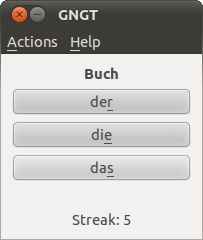
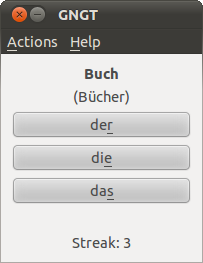
updated for v1.0 release

diff --git a/downloads.html b/downloads.html
@@ -11,28 +11,34 @@
 <div id="Content">
 
 	<h1>Windows</h1>
-	<p><a href="https://github.com/downloads/lawand/gngt/GNGT%20v0.9%20(Windows).zip">GNGT v0.9 - 3.1MB</a></p>
+	<p><a href="https://github.com/downloads/lawand/gngt/GNGT%20v1.0%20(Windows).zip">GNGT v1.0 - 3.1MB</a></p>
 	<p>Supported versions of the Windows operating system are 32bit Editions of Windows XP, Windows Vista and Windows 7.</p>
 	
 	<h1>Ubuntu Linux</h1>
-	<p><a href="https://github.com/downloads/lawand/gngt/GNGT%20v0.9%20(Ubuntu%20Linux).zip">GNGT v0.9 - 0.1MB</a> (For i386-compatible PCs)</p>
+	<p><a href="https://github.com/downloads/lawand/gngt/GNGT%20v1.0%20(Ubuntu%20Linux).zip">GNGT v1.0 - 0.1MB</a> (For i386-compatible PCs)</p>
 	<p>To install:</p>
 	<p>Download the package.</p>
 	<p>Extract package contents.</p>
-	<p>Right click the "gngt_0.9_i386.deb" file then select "Open With Ubuntu Software Center".</p>
+	<p>Right click the "gngt_1.0_i386.deb" file then select "Open With Ubuntu Software Center".</p>
 	<p>Wait for Ubuntu Software Center to start then select install.</p>
 	<p>Some packages might need to be downloaded and installed. This will be done automatically by Ubuntu Software Center. Download size varies between different systems.</p>
 	<p><i>This was tested with Ubuntu 10.10</i></p>
 	
 	<h1>Maemo Linux</h1>
-	<p>Coming Soon.</p>
+	<p><a href="https://github.com/downloads/lawand/gngt/GNGT%20v1.0%20(Maemo%20Linux).zip">GNGT v1.0 - 0.1MB</a></p>
+	<p>To install:</p>
+	<p>Download the package.</p>
+	<p>Extract package contents.</p>
+	<p>Send "gngt_1.0.0_armel.deb" to your device.</p>
+	<p>Open it and follow on-screen instructions.</p>
+	<p><i>This was tested with Maemo5 PR1.3.</i></p>
 	
 	<h1>Other Linux Distributions</h1>
 	<p>To use GNGT on other distributions, you can download the source code and compile it (after installing Qt4).</p>
 	<p>GNGT can be used on any distribution and architecture supported by Qt4.</p>
 	
 	<h1>Symbian</h1>
-	<p><a href="https://github.com/downloads/lawand/gngt/GNGT%20v0.9%20(Symbian).zip">GNGT v0.9 - 0.1MB</a></p>
+	<p><a href="https://github.com/downloads/lawand/gngt/GNGT%20v1.0%20(Symbian).zip">GNGT v1.0 - 0.1MB</a></p>
 	<p><a href="ftp://ftp.qt.nokia.com/pub/qt/symbian/4.7.1/qt_installer.sis">Qt v4.7.1 - 12.2MB</a></p>
 	<p>To install GNGT on your Symbian powered smart phone, you need to install Qt. The tested version is v4.7.1.</p>
 	<p>Devices compatible with GNGT are those compatible with Qt. In other words, most Nokia smart phones released after 2006 and some smart phones of other brands. More specifically, Symbian powered smart phones that run S60 versions 3.1, 3.2 or 5.0. Plus models that run Symbian^3 and (probably) later versions of Symbian.</p>
@@ -42,8 +48,8 @@
 		This setting can be changed in the device as follows: Open the application manager, then select: Settings > Software installation > All.</p>
 	
 	<h1>Source</h1>
-	<p><a href="https://github.com/lawand/gngt/zipball/v0.9/">v0.9 - ZIP</a></p>
-	<p><a href="https://github.com/lawand/gngt/tarball/v0.9/">v0.9 - TAR.GZ</a></p>
+	<p><a href="https://github.com/lawand/gngt/zipball/v1.0/">v1.0 - ZIP</a></p>
+	<p><a href="https://github.com/lawand/gngt/tarball/v1.0/">v1.0 - TAR.GZ</a></p>
 	
 	<h1>Archive</h1>
 	<p>Older versions can be found at <a href="https://github.com/lawand/gngt/downloads/">Github</a>.</p>

diff --git a/screenshots.html b/screenshots.html
@@ -10,12 +10,12 @@
 
 <div id="Content">
 	<h1>Windows</h1>
-	<p><img src="resources/screenshot1.png" alt="GNGT Windows XP Screenshot" height="219" width="208"/></p>
+	<p><img src="resources/screenshot1.png" alt="GNGT Windows XP Screenshot" height="238" width="208"/></p>
 	<p>A screenshot of GNGT running under the Windows operating system.</p>
 
 	<h1>Ubuntu Linux</h1>
 	<p>GNGT running under the Linux operating system (Ubuntu 10.10).</p>
-	<p><img src="resources/screenshot3.png" alt="GNGT Ubuntu Linux 10.10 Screenshot 1" height="240" width="203"/></p>
+	<p><img src="resources/screenshot3.png" alt="GNGT Ubuntu Linux 10.10 Screenshot 1" height="263" width="203"/></p>
 	<p>Main Window.</p>	
 	<p><img src="resources/screenshot4.png" alt="GNGT Ubuntu Linux 10.10 Screenshot 2" height="389" width="280"/></p>
 	<p>Edit Nouns Dialog.</p>

diff --git a/index.html b/index.html
@@ -14,6 +14,7 @@
 	<p>GNGT is a small application which helps German learners memorize genders of German nouns through memorizing their corresponding definite articles (der, die or das).</p>
 	
 	<h1>Latest News</h1>
+	<p>2010-12-12: v1.0 released (added ability to store plural forms of nouns, added support for Maemo Linux).</p>
 	<p>2010-12-05: v0.9 released (added support for Ubuntu Linux).</p>
 	<p>2010-11-28: v0.8 released (added support for the Symbian platform).</p>
 	<p>2010-11-19: v0.7 released (added ability to keep track of the memorization of nouns).</p>
